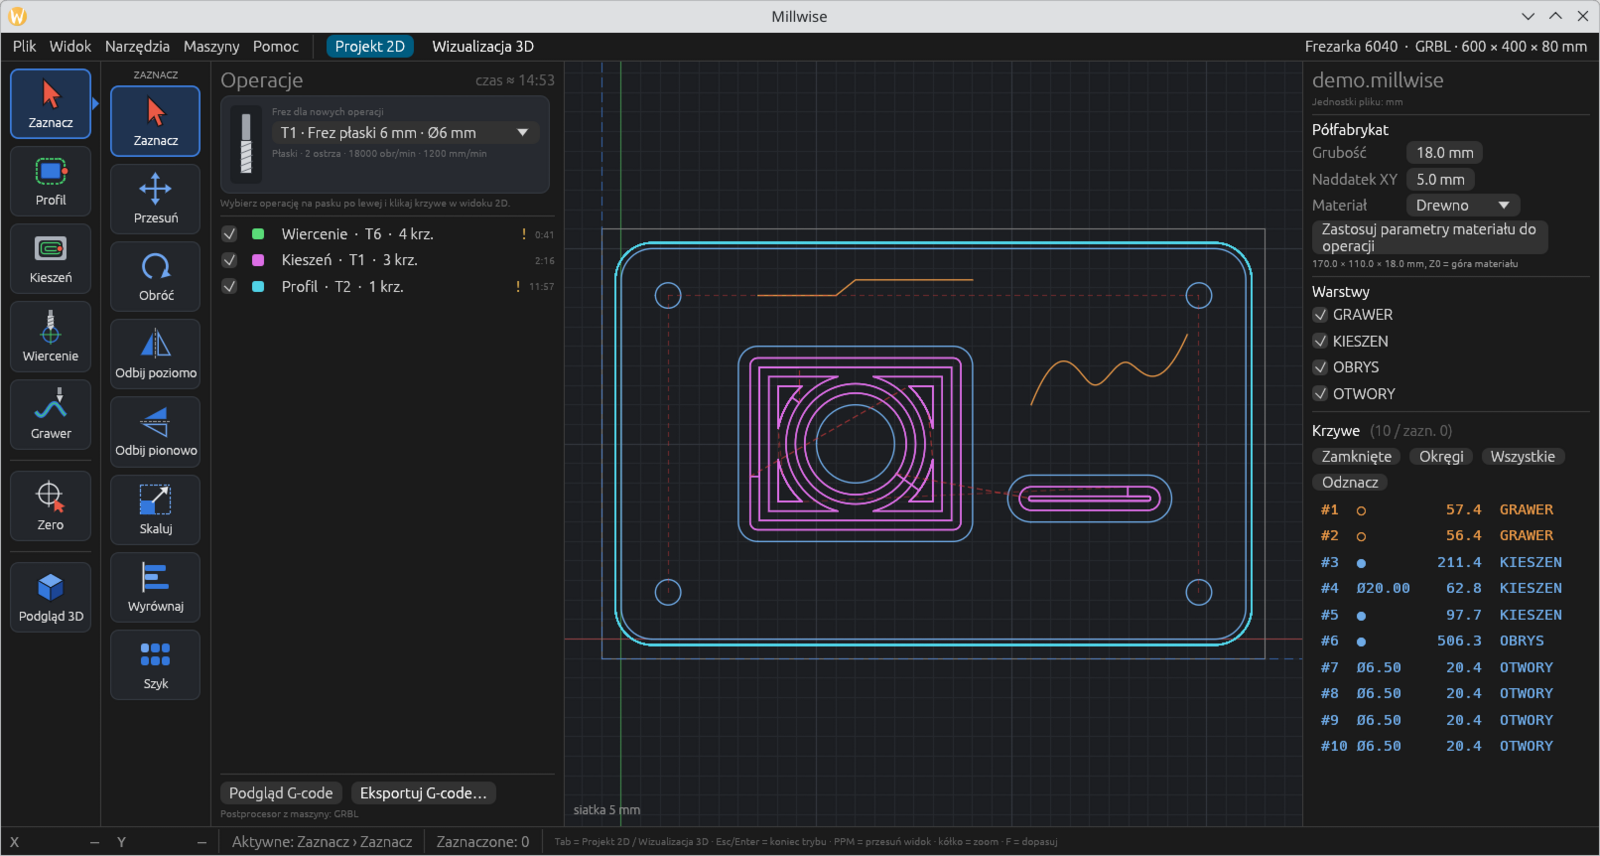
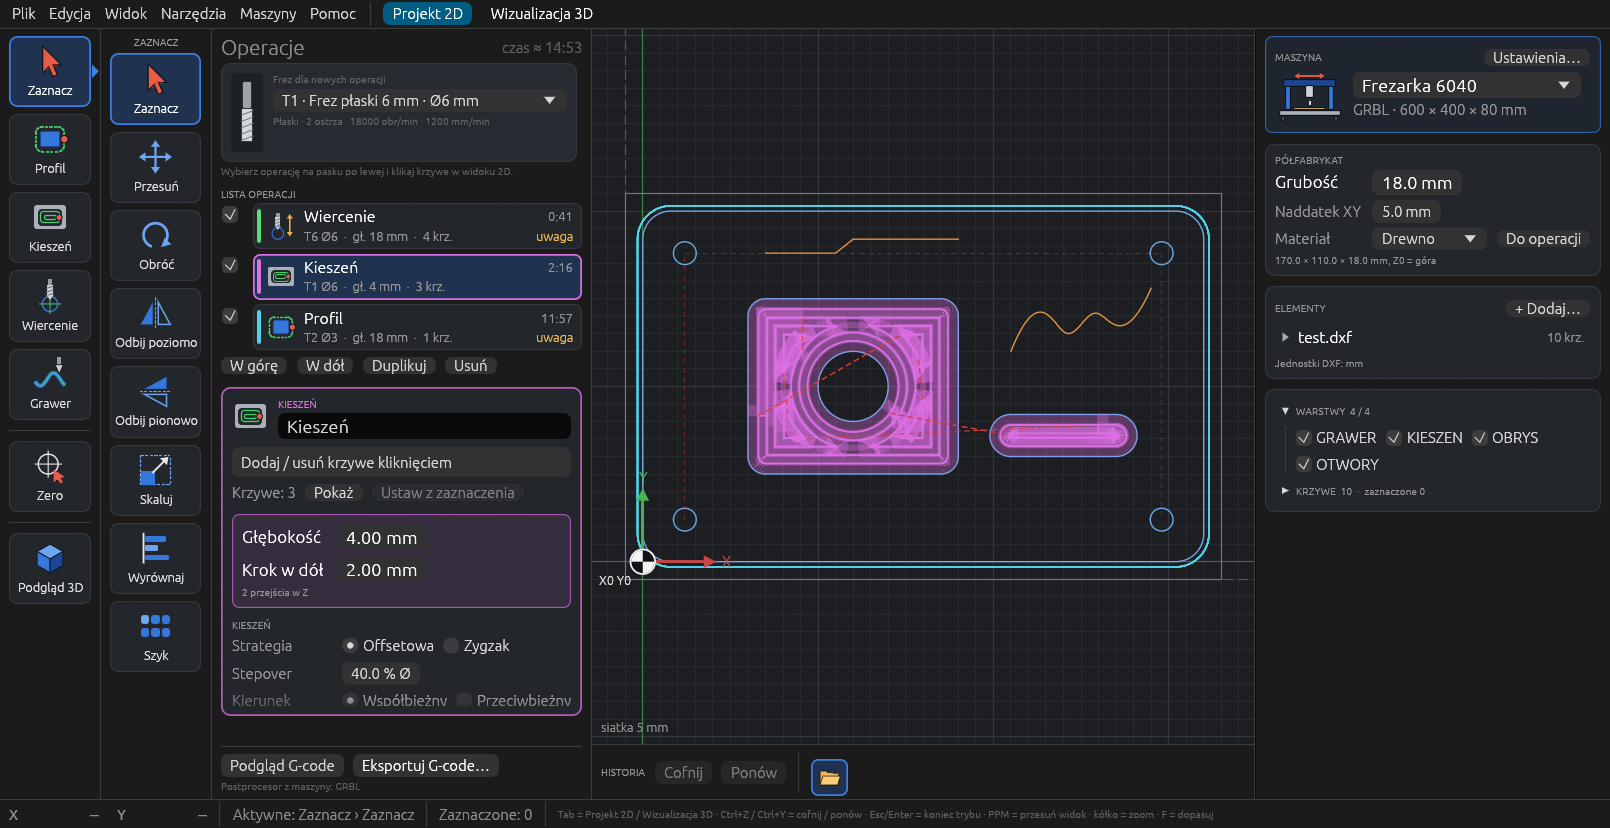
Release 0.2.0

diff --git a/app/src/app.rs b/app/src/app.rs
@@ -1482,11 +1482,13 @@ impl CamApp {
 /// (po kilkudziesięciu klatkach) i zamyka program.
 fn dev_screenshot(ctx: &egui::Context) {
     let Ok(path) = std::env::var("MILLWISE_SCREENSHOT") else { return };
+    // MILLWISE_SCREENSHOT_AT: numer klatki zrzutu (np. później, gdy symulacja musi się przeliczyć)
+    let at: u64 = std::env::var("MILLWISE_SCREENSHOT_AT").ok().and_then(|v| v.parse().ok()).unwrap_or(40);
     let n = ctx.cumulative_frame_nr();
-    if n < 300 {
+    if n <= at + 300 {
         ctx.request_repaint();
     }
-    if n == 40 {
+    if n == at {
         let c = ctx.clone();
         let cb = egui::ScreenshotCallback::new(move |img| {
             let [w, h] = img.size;

diff --git a/README_pl.md b/README_pl.md
@@ -3,10 +3,10 @@
 **English:** [README.md](README.md) · **Zmiany:** [CHANGELOG.md](CHANGELOG.md) · **Dla programistów:** [DEVELOPMENT.md](DEVELOPMENT.md)
 
 > **Wczesny etap rozwoju — jeszcze nie do użytku.** Millwise jest na bardzo
-> wczesnym etapie (wersja 0.1.0). Zmienia się codziennie, nie ma jeszcze wydań
-> ani instalatorów, a tworzony G-code nie był testowany na prawdziwych
-> maszynach. **Na razie nie zalecamy używania go do sterowania frezarką.**
-> Uwagi i pomysły chętnie przyjmujemy w zgłoszeniach (Issues).
+> wczesnym etapie (wersja 0.2.0). Zmienia się codziennie, a tworzony G-code
+> nie był testowany na prawdziwych maszynach. **Na razie nie zalecamy używania
+> go do sterowania frezarką.** Pierwszą wersję testową dla Linuksa można
+> pobrać (niżej). Uwagi i pomysły chętnie przyjmujemy w zgłoszeniach (Issues).
 
 Millwise to darmowy program CAM dla 3-osiowych frezarek CNC. Z rysunków DXF
 tworzy ścieżki narzędzia i zapisuje G-code dla **GRBL / FluidNC** oraz
@@ -15,7 +15,7 @@ razie nie planujemy).
 
 ![Główne okno Millwise](docs/screenshot.png)
 
-## Co potrafi (0.1.0)
+## Co potrafi (0.2.0)
 
 - **Import DXF:** linie, łuki, okręgi, polilinie z łukami, splajny, elipsy i
   bloki; luźne elementy są łączone w kontury, cale przeliczane na milimetry.
@@ -25,13 +25,18 @@ razie nie planujemy).
   - **Kieszeń** offsetowa albo zygzak, z wyspami.
   - **Wiercenie:** pojedyncze, z wycofaniem albo frezowanie otworu po helisie.
   - **Grawer** po linii, z lewej albo z prawej strony linii.
-- **Edycja:** przesuń, obróć, odbij, skaluj, wyrównaj, szyk; zero programu w
-  rogu półfabrykatu, w jego środku albo we wskazanym punkcie.
+- **Edycja:** przesuń, obróć, odbij, skaluj, wyrównaj, szyk, wytnij / kopiuj /
+  wklej; zero programu w rogu półfabrykatu, w jego środku albo we wskazanym
+  punkcie. **Cofanie i ponawianie** z paskiem historii: jedna ikona na
+  czynność, kliknięcie wraca do niej.
+- **Kilka plików w jednym projekcie:** do bieżącego projektu można dodać
+  kolejne rysunki DXF i inne projekty (z ich operacjami); lista elementów
+  pokazuje, z czego składa się projekt.
 - **Biblioteka narzędzi** wspólna dla wszystkich projektów, z graficznym
   wyborem rodzaju freza (płaski, kulowy, z promieniem naroża, V, grawerski,
   wiertło) i parametrami skrawania dla materiałów (drewno, MDF, aluminium,
   plexi).
-- **Maszyny:** pole robocze, narożnik bazowania, sterownik, posuwy maksymalne
+- **Maszyny** z rysunkiem rodzaju maszyny: pole robocze, narożnik bazowania, sterownik, posuwy maksymalne
   i szybkie, wrzeciono, zmiana narzędzia (pauza M0, M6 albo osobne pliki),
   chłodzenie, własny początek i koniec programu. Operacje są sprawdzane
   względem maszyny.
@@ -48,9 +53,20 @@ razie nie planujemy).
 Import STL i obróbka 3D (drop-cutter), kieszeń adaptacyjna, V-carve, paczki
 dla Linuksa. Co jest gotowe — w CHANGELOG.
 
+## Pobieranie (Linux)
+
+Na stronie [Releases](https://github.com/cyryllo/millwise/releases) jest
+**AppImage**: jeden plik, bez instalacji. Działa na Debianie 12 / 13, Ubuntu
+22.04 lub nowszym i innych dystrybucjach z tego okresu.
+
+```sh
+chmod +x Millwise-0.2.0-x86_64.AppImage
+./Millwise-0.2.0-x86_64.AppImage
+```
+
 ## Budowanie ze źródeł
 
-Paczek jeszcze nie ma. Potrzebny jest aktualny stabilny Rust (testowane na 1.99):
+Potrzebny jest aktualny stabilny Rust (testowane na 1.99):
 
 ```sh
 git clone https://github.com/cyryllo/millwise.git

diff --git a/README.md b/README.md
@@ -3,10 +3,10 @@
 **Po polsku:** [README_pl.md](README_pl.md) · **Changes:** [CHANGELOG.md](CHANGELOG.md) · **For developers:** [DEVELOPMENT.md](DEVELOPMENT.md)
 
 > **Early development — not ready for use.** Millwise is at a very early stage
-> (version 0.1.0). It changes every day, there are no releases or installers
-> yet, and the G-code it writes has not been tested on real machines. **Please
-> do not use it to run a CNC machine yet.** Feedback and ideas are welcome in
-> the issues.
+> (version 0.2.0). It changes every day and the G-code it writes has not been
+> tested on real machines. **Please do not use it to run a CNC machine yet.**
+> A first test version for Linux can be downloaded (see below). Feedback and
+> ideas are welcome in the issues.
 
 Millwise is a free CAM program for 3-axis CNC routers and mills. It turns DXF
 drawings into toolpaths and writes G-code for **GRBL / FluidNC** and
@@ -15,7 +15,7 @@ not planned for now). The user interface is in Polish for now.
 
 ![Millwise main window](docs/screenshot.png)
 
-## What it does (0.1.0)
+## What it does (0.2.0)
 
 - **DXF import:** lines, arcs, circles, polylines with arcs, splines,
   ellipses and blocks; loose pieces are joined into contours, inches are
@@ -26,12 +26,17 @@ not planned for now). The user interface is in Polish for now.
   - **Pocket** offset or zigzag, with islands.
   - **Drilling:** single, peck, or helical hole milling.
   - **Engraving** on the line, on its left or on its right.
-- **Editing:** move, rotate, mirror, scale, align, array; set the program
-  zero at a stock corner, its centre or a picked point.
+- **Editing:** move, rotate, mirror, scale, align, array, cut / copy / paste;
+  set the program zero at a stock corner, its centre or a picked point.
+  **Undo and redo** with a history bar: one icon per action, a click goes
+  back to it.
+- **Several files in one project:** add DXF drawings and other projects
+  (with their operations) to the current one; the elements list shows what
+  the project is made of.
 - **Tool library** shared by all projects, with a visual choice of the cutter
   type (flat, ball, bull nose, V, engraving, drill) and cutting data per
   material (wood, MDF, aluminium, acrylic).
-- **Machines:** work area, homing corner, controller, feed and rapid limits,
+- **Machines** with a picture of the machine type: work area, homing corner, controller, feed and rapid limits,
   spindle, tool change (M0 pause, M6 or one file per tool), coolant, custom
   program start and end. Operations are checked against the machine.
 - **3D simulation** of material removal on a real solid (Boolean operations),
@@ -47,9 +52,20 @@ not planned for now). The user interface is in Polish for now.
 STL import and 3D machining (drop-cutter), adaptive pocketing, V-carving,
 Linux packages. See the changelog for what is done.
 
+## Download (Linux)
+
+The [Releases](https://github.com/cyryllo/millwise/releases) page has an
+**AppImage**: one file, nothing to install. It runs on Debian 12 / 13,
+Ubuntu 22.04 or newer and other distributions of that age.
+
+```sh
+chmod +x Millwise-0.2.0-x86_64.AppImage
+./Millwise-0.2.0-x86_64.AppImage
+```
+
 ## Building from source
 
-There are no packages yet. With a recent stable Rust (tested with 1.99):
+With a recent stable Rust (tested with 1.99):
 
 ```sh
 git clone https://github.com/cyryllo/millwise.git

diff --git a/TODO.md b/TODO.md
@@ -24,9 +24,8 @@ powinno być):
 
 ## 2. Pierwsze wydanie
 
-- [ ] Wysłać na GitHub zaległe commity (tylko na prośbę).
-- [ ] Wersja z poprawkami 2D (0.2.0 lub 0.1.x) + sekcja w CHANGELOG.
-- [ ] Tag `vX.Y.Z` i wydanie na GitHubie z AppImage.
+- [x] 0.2.0: pierwsze wydanie z AppImage na GitHubie (wersja wstępna).
+- [ ] Kolejna wersja z poprawkami frezowania 2D.
 - [ ] Sprawdzić G-code na prawdziwej maszynie (GRBL/FluidNC, LinuxCNC), potem
       złagodzić ostrzeżenie w README.
 
@@ -72,7 +71,7 @@ Plan ustalony, start dopiero po dopracowaniu 2D. Szczegóły w
       szybkich w materiale.
 - [x] Projekty `.millwise`.
 
-**Po 0.1.0 (jeszcze bez wersji)**
+**0.2.0** (2026-11-13)
 
 - [x] Znacznik zera programu w widoku 2D i 3D.
 - [x] AppImage budowany lokalnie w Dockerze; `--version` / `--help`.

diff --git a/DEVELOPMENT.md b/DEVELOPMENT.md
@@ -20,7 +20,9 @@ manual checks: `3d`, `simend`, `simat=0.25` (simulation at a fraction of the
 program), `bottom`, `tools`, `machines`, `about`, `keys` (keyboard shortcuts),
 `op=2` (select the third operation) — several separated by commas.
 `MILLWISE_SCREENSHOT=file.ppm` saves a picture of the program's own window
-after a moment and closes it (convert with `convert file.ppm file.png`). `CAMSIM_DEBUG=1` prints the cells the fast (height map) engine could
+after a moment and closes it (convert with `convert file.ppm file.png`);
+`MILLWISE_SCREENSHOT_AT=200` takes it at a later frame (e.g. after the
+simulation has been computed). `CAMSIM_DEBUG=1` prints the cells the fast (height map) engine could
 not build exactly.
 
 ## Project layout

diff --git a/CHANGELOG.md b/CHANGELOG.md
@@ -7,7 +7,10 @@ Version numbers:
   when a new module is added);
 - the **third number** goes up for releases that only fix bugs.
 
-## Unreleased
+## 0.2.0 (2026-11-13)
+
+First version to download: an AppImage for Linux. **Still early development:
+not ready for running a machine.**
 
 ### Added
 
